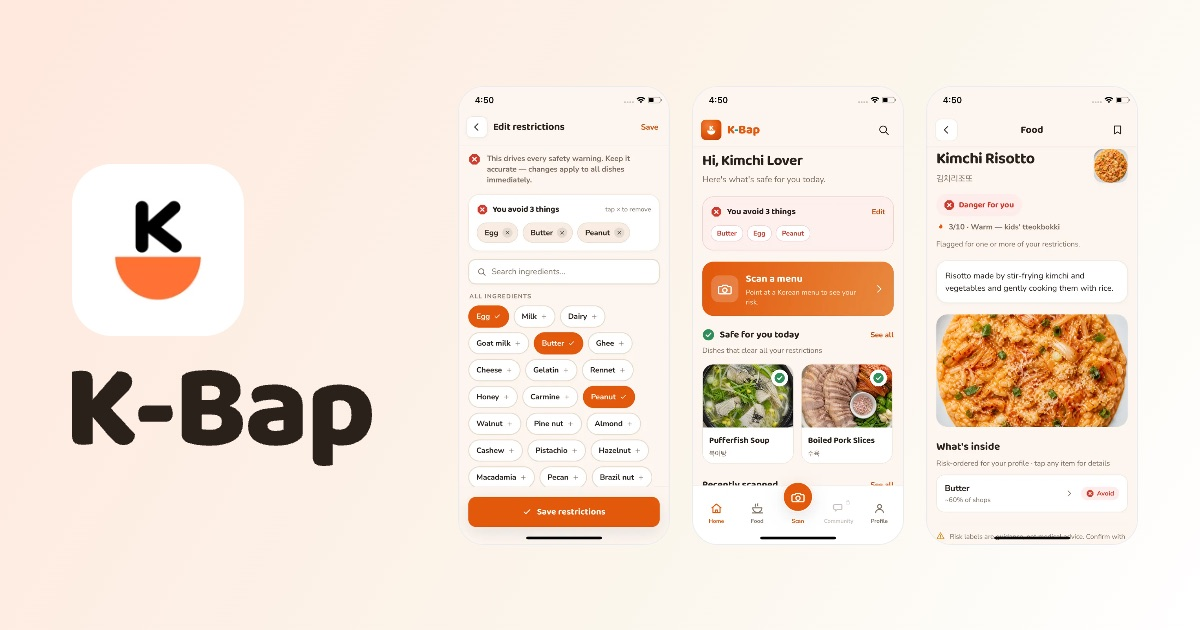
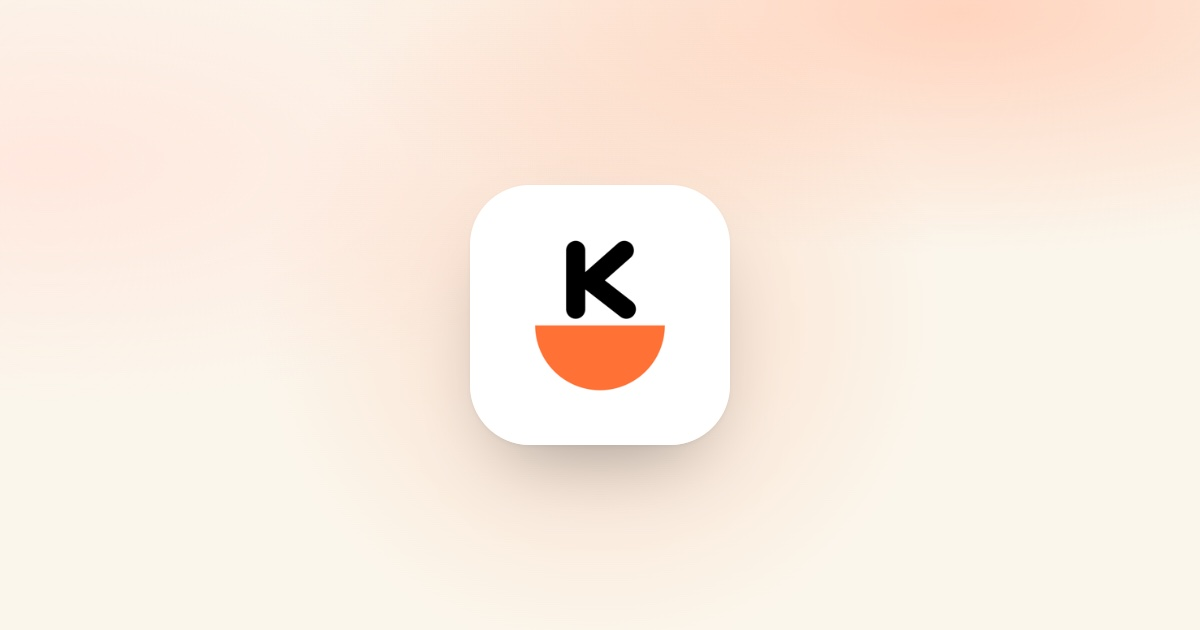
landing: keep the App Store link everywhere, drop the stale wordmark
Three things Yejin caught.

The App Store link could disappear. Android devices had the Apple badge
hidden, which on a page built to catch iOS paid traffic is backwards. Now only
iOS drops a badge, and it drops Play. Android and desktop show both, so the
App Store link is present on every device; check.js fails if anything hides it
again.

The wordmark at the top is gone. The file on disk is the old lockup, and there
are three different ones in the tree with no agreed source of truth, so rather
than ship stale branding the hero just leads with the headline. The file is
deleted; nothing references it.

og:image is rebuilt from the icon alone. The old card carried that same stale
wordmark plus three outdated app screens. The icon itself was already current
(imgs/play-assets/icon-1024 copy.png is byte-identical to what the repo
ships), so the card is now the real mark on the page's own background. 126KB
to 41KB.

Badge sizing for the two-badge case drops to 40px, Apple's documented minimum.
This row is flex-nowrap, so an oversized pill does not stack the badges, it
pushes them past the viewport edge: at 44px the pair needs 329px of the 316px
a 360px phone has. Measured at 40px it spans 23 to 322 of 360. The check now
does that arithmetic against 360px with slack, and I verified it fails on a
bump back to 44px rather than trusting the formula.

Still outstanding: the hero screenshot is the 7/24 store capture and is out of
[…]

diff --git a/styles.css b/styles.css
@@ -54,10 +54,9 @@ p{margin:0}
 }
 .hero > *:not(.glow){position:relative}
 
-.brand{flex:0 0 auto;padding:6px 0 0}
-.brand img{display:block;margin:0 auto;height:23px;width:auto}
-
-.copy{flex:0 0 auto;margin-top:clamp(26px,7svh,60px)}
+/* No wordmark at the top: the one on file is the old lockup, and the headline
+   says the name anyway. */
+.copy{flex:0 0 auto;margin-top:clamp(52px,12svh,120px)}
 
 h1{
   font-size:clamp(34px,9.4vw,56px);
@@ -83,16 +82,21 @@ h1{
    Nothing is rotated, recoloured, redrawn or animated, and flex:0 0 auto stops
    a narrow viewport from shrinking the art off its own proportions.
 
-   --bh is the pill height. With JS the device gets one badge at 52px. Without
-   it both show at 44px, which still fits one row at 375px: two badges stacked
-   vertically is the thing this page must never do. */
+   --bh is the pill height. iOS gets one badge at 52px. Everywhere else both
+   show at 40px, Apple's documented minimum, which leaves ~16px of slack on a
+   360px phone. 44px measured as fitting on paper and still wrapped, so the
+   floor buys the headroom: two badges stacked vertically is the one thing this
+   page must never do. */
 .badges{
-  --bh:44px;
+  --bh:40px;
   margin-top:clamp(22px,3.6svh,34px);
   display:flex;justify-content:center;align-items:center;gap:6px;
 }
-.ios .badges,.android .badges{--bh:52px}
-.ios .badge-play,.android .badge-apple{display:none}
+/* Only iOS drops a badge, and it drops Play. The App Store link stays on every
+   device: this page exists to catch iOS paid traffic, so it must never be the
+   link that disappears. Android and desktop therefore show both, at 44px. */
+.ios .badges{--bh:52px}
+.ios .badge-play{display:none}
 
 .badge{display:inline-flex;flex:0 0 auto;text-decoration:none;-webkit-tap-highlight-color:transparent;transition:transform .18s ease}
 .badge:active{transform:scale(.97)}
@@ -134,16 +138,15 @@ footer a:hover{color:var(--ink)}
    would push back the largest paint, so it stays painted the whole time. */
 @keyframes rise{from{opacity:0;transform:translateY(14px)}to{opacity:1;transform:none}}
 @keyframes lift{from{transform:translate(-50%,28px)}to{transform:translate(-50%,0)}}
-.brand,h1,.lede,.badges,.note{animation:rise .62s cubic-bezier(.22,.7,.28,1) backwards}
-.brand{animation-delay:.04s}
-h1{animation-delay:.10s}
+h1,.lede,.badges,.note{animation:rise .62s cubic-bezier(.22,.7,.28,1) backwards}
+h1{animation-delay:.06s}
 .lede{animation-delay:.20s}
 .badges{animation-delay:.28s}
 .note{animation-delay:.36s}
 .screen{animation:lift .8s cubic-bezier(.22,.7,.28,1) .18s backwards}
 
 @media (prefers-reduced-motion:reduce){
-  .brand,h1,.lede,.badges,.note,.screen,.badge{animation:none;transition:none}
+  h1,.lede,.badges,.note,.screen,.badge{animation:none;transition:none}
 }
 
 /* ---------------- roomier screens ---------------- */

diff --git a/check.js b/check.js
@@ -115,14 +115,22 @@ assert.strictEqual((html.match(/class="badge badge-/g) || []).length, 2,
   'both store badges must be in the markup so a no-JS visitor still sees their store');
 assert.ok(/min-height:100svh/.test(css), 'the hero must fill one screen');
 
-// Two badges stacked vertically on a phone is the thing this page must never do,
-// so the no-JS pill height has to leave both on one row at 375px.
+// The badge row is flex-nowrap, so an oversized pill does not stack the badges,
+// it pushes them out of the viewport. Either way the page is broken, so the
+// two-badge height has to keep the pair inside the narrowest common phone.
 const bh = /\.badges\{\s*--bh:(\d+)px/.exec(css);
 assert.ok(bh, '--bh (badge pill height) is not defined on .badges');
 const h = Number(bh[1]);
+assert.ok(h >= 40, `badge pill is ${h}px; Apple's minimum is 40px`);
 const rowWidth = h * 2.9916 + h / 2 + 6 + (h / 0.672) * 2.584;   // apple box + gap + play box
-assert.ok(rowWidth <= 375 - 44, `both badges need ${Math.ceil(rowWidth)}px but only 331px is free at 375px, so they would stack`);
-assert.ok(/\.ios \.badge-play,\.android \.badge-apple\{display:none\}/.test(css),
-  'the per-device badge rule is missing, so phones would show both');
+// 360px phone minus 44px of page padding, with 12px of slack for sub-pixel
+// rounding. Measured: 40px pill spans 23→322 of 360. A 44px pill would need
+// 329px of the 316px available and would overflow.
+const free = 360 - 44 - 12;
+assert.ok(rowWidth <= free,
+  `both badges need ${Math.ceil(rowWidth)}px but only ${free}px is usable on a 360px phone, so they would overflow`);
+assert.ok(/\.ios \.badge-play\{display:none\}/.test(css), 'iOS should not be offered Play');
+assert.ok(!/\.badge-apple\{display:none\}/.test(css),
+  'the App Store badge must never be hidden: this page catches iOS paid traffic');
 
 console.log(`ok — ${checked} strings match i18n/en.json, images ${(bytes / 1024).toFixed(0)}KB, links and ?lang= verified`);

diff --git a/index.html b/index.html
@@ -39,10 +39,6 @@
 <main class="hero">
   <div class="glow" aria-hidden="true"></div>
 
-  <header class="brand">
-    <img src="assets/brand/kbap-wordmark-ink.svg" alt="K-Bap" width="72" height="23">
-  </header>
-
   <div class="copy">
     <h1>
       <span data-i18n="hero.headline1">You can't read</span>
